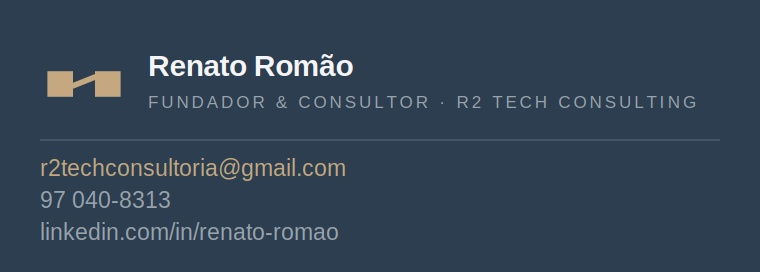
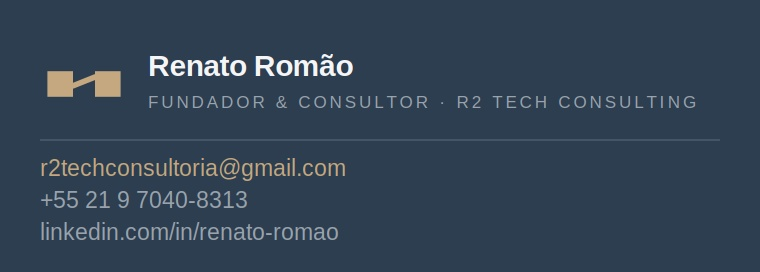
Fix phone number to +55 21 9 7040-8313 in all signature files
Claude-Session: https://claude.ai/code/session_01PdGEWtgMqB3vnEGo6qveNd

Changed region(s): [[0.0303, 0.7059, 0.3329, 0.7647]]

diff --git a/brand/gmail-signature.html b/brand/gmail-signature.html
@@ -111,7 +111,7 @@
 <script>
 const DATA = {
   email:    'r2techconsultoria@gmail.com',
-  phone:    '97 040-8313',
+  phone:    '+55 21 9 7040-8313',
   linkedin: 'linkedin.com/in/renato-romao',
   name:     'Renato Romão',
   role:     'Fundador & Consultor',
